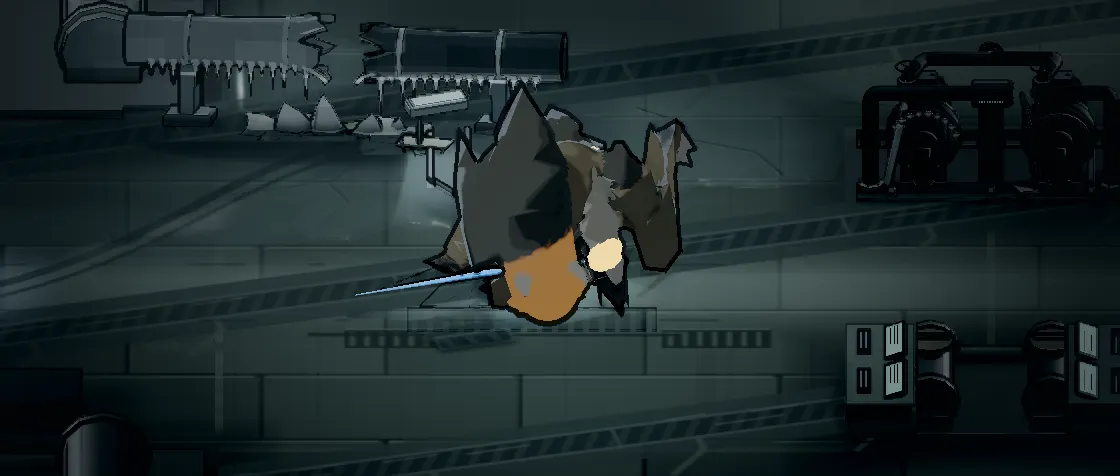
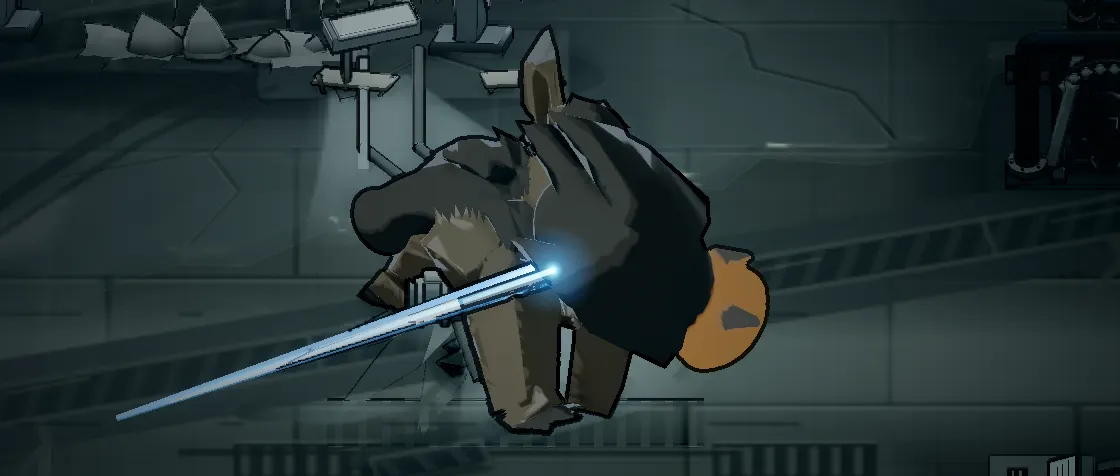
Turn the Warden’s armour into the plasma strike on the pump-gallery card

diff --git a/scripts/nextgen/studioFixture.ts b/scripts/nextgen/studioFixture.ts
@@ -161,7 +161,7 @@ export async function shootStudio(owner:DepthRenderer, game:DepthGame, shot:Stud
         }
         case 'ordnance': {
           const plasma=subject.weapon==='plasma';
-          const flash=new T.MeshBasicMaterial({color:plasma?0xc2ecff:0xffc174});
+          const flash=new T.MeshBasicMaterial({color:plasma?0xe9faff:0xffc174});
           const wake=new T.MeshStandardMaterial({color:plasma?0x348bf3:0x705052,
             emissive:plasma?0x369eff:0x403b40,emissiveIntensity:plasma?1.3:.48});
           const group=new T.Group();
@@ -175,8 +175,10 @@ export async function shootStudio(owner:DepthRenderer, game:DepthGame, shot:Stud
             disposable.push(()=>mesh.geometry.dispose());
           };
           if(plasma){
-            streak(new T.Vector3(),tail,.065,.01,wake);
-            streak(new T.Vector3(),tail.clone().multiplyScalar(.87),.03,.009,flash);
+            streak(new T.Vector3(),tail,.15,.035,wake);
+            // Offset the hot channel to the camera side so the blue wake cannot bury it.
+            const core=new T.Vector3(0,.048,.09);
+            streak(core,tail.clone().multiplyScalar(.88).add(core),.095,.015,flash);
             const sparks=[[-.31,.29,.18],[-.15,.16,.44],[.04,.36,.22],[.16,.14,.31],[-.29,-.12,.24],[.11,-.23,.37]];
             for(const offset of sparks){
               const end=new T.Vector3(...offset);
@@ -448,6 +450,38 @@ export async function shootStudio(owner:DepthRenderer, game:DepthGame, shot:Stud
       const gradient=ctx.createRadialGradient(shot.width*.5,shot.height*.56,shot.height*.16,shot.width*.5,shot.height*.56,shot.width*.63);
       gradient.addColorStop(0,'transparent');gradient.addColorStop(1,'rgba(1,8,12,.69)');
       ctx.fillStyle=gradient;ctx.fillRect(0,0,shot.width,shot.height);
+    }
+    // Plasma lights the plate at contact. Project the hot core from the same
+    // endpoints as the studio mesh so the glow follows changes to the crop.
+    for(const subject of shot.subjects){
+      if(subject.kind!=='ordnance'||subject.weapon!=='plasma')continue;
+      const project=(point:T.Vector3)=>{
+        point.add(stage.position).project(camera);
+        return [(point.x+1)*shot.width/2,(1-point.y)*shot.height/2] as const;
+      };
+      const [x,y]=project(new T.Vector3(subject.x,subject.y,subject.z));
+      const [tx,ty]=project(new T.Vector3(...subject.from));
+      ctx.save();
+      ctx.globalCompositeOperation='screen';
+      ctx.lineCap='round';
+      const wake=ctx.createLinearGradient(tx,ty,x,y);
+      wake.addColorStop(0,'rgba(67,175,255,0)');
+      wake.addColorStop(.5,'rgba(52,169,255,.40)');
+      wake.addColorStop(1,'#c7f7ff');
+      ctx.strokeStyle=wake;
+      ctx.lineWidth=shot.height*.012;
+      ctx.shadowColor='#2d9dff';
+      ctx.shadowBlur=shot.height*.029;
+      ctx.beginPath();ctx.moveTo(tx,ty);ctx.lineTo(x,y);ctx.stroke();
+      const radius=shot.height*.096;
+      const impact=ctx.createRadialGradient(x,y,0,x,y,radius);
+      impact.addColorStop(0,'#f1feff');
+      impact.addColorStop(.07,'#a8eeff');
+      impact.addColorStop(.23,'rgba(53,174,255,.58)');
+      impact.addColorStop(1,'rgba(36,134,255,0)');
+      ctx.shadowBlur=0;ctx.fillStyle=impact;
+      ctx.fillRect(x-radius,y-radius,radius*2,radius*2);
+      ctx.restore();
     }
     if(shot.transparent){
       const foreground=ctx.getImageData(0,0,shot.width,shot.height);
